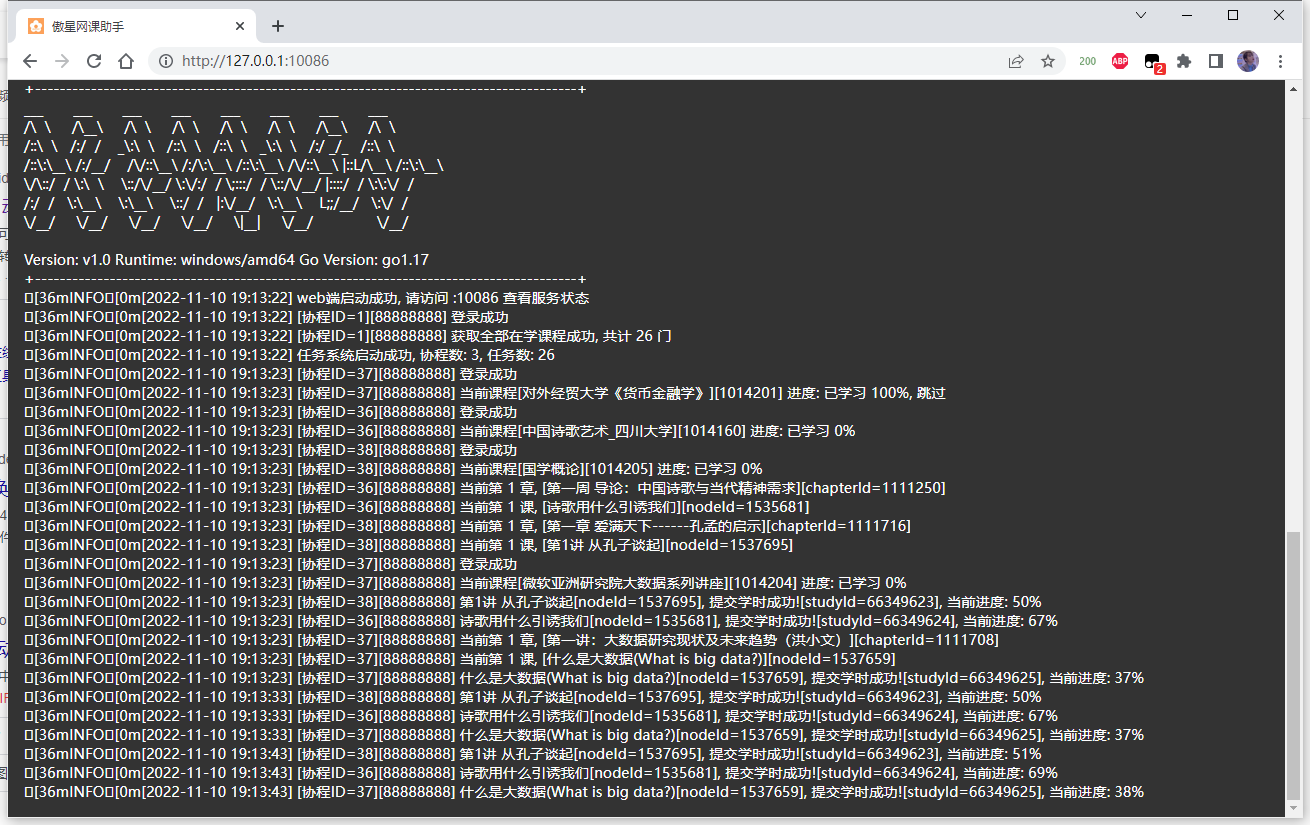
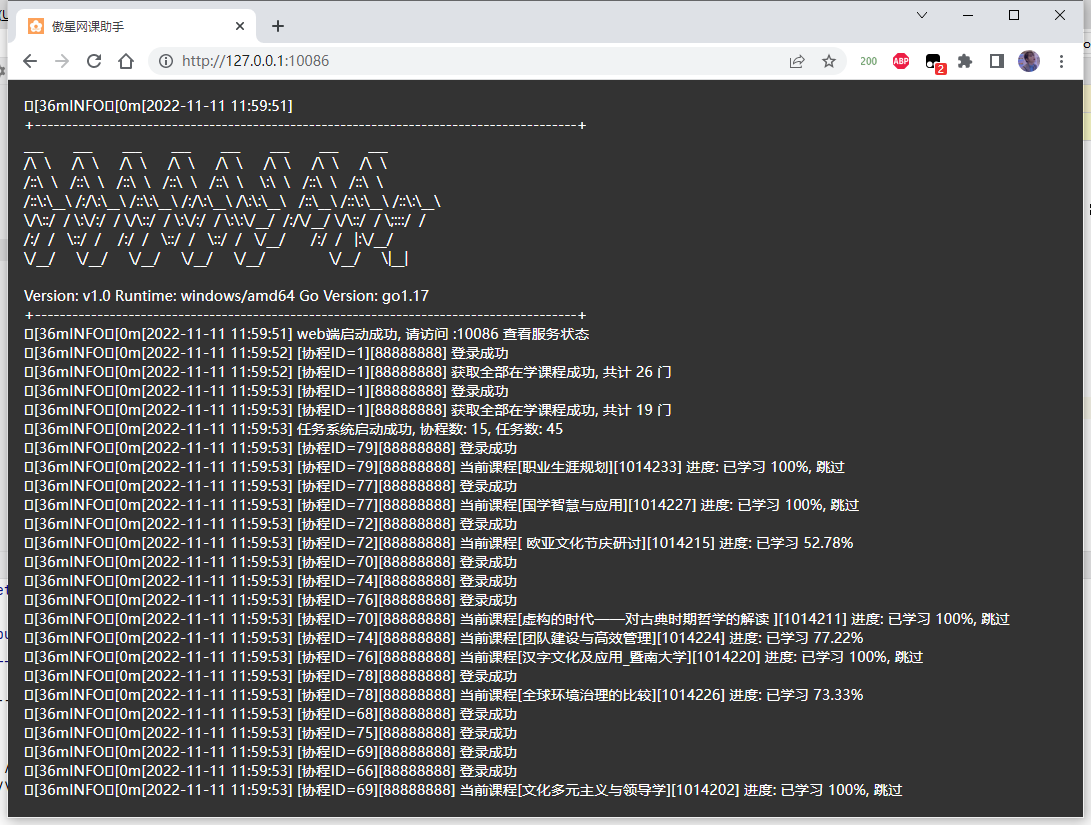
style: 💄 update `copyright`

Changed region(s): [[0.0, 0.0, 0.9349, 0.9697], [0.7479, 0.0606, 1.0, 1.0], [0.9661, 0.0, 1.0, 0.0606]]

diff --git a/pkg/util/util.go b/pkg/util/util.go
@@ -74,13 +74,13 @@ func ReadText(filename string, line int, limit int) ([]string, error) {
 func Copyright() {
 	logrus.Infof(`
 +---------------------------------------------------------------------------------------+
-        ___       ___       ___       ___       ___       ___       ___       ___   
-       /\  \     /\__\     /\  \     /\  \     /\  \     /\  \     /\__\     /\  \  
-      /::\  \   /:/  /    _\:\  \   /::\  \   /::\  \   _\:\  \   /:/ _/_   /::\  \ 
-     /::\:\__\ /:/__/    /\/::\__\ /:/\:\__\ /::\:\__\ /\/::\__\ |::L/\__\ /::\:\__\
-     \/\::/  / \:\  \    \::/\/__/ \:\/:/  / \;:::/  / \::/\/__/ |::::/  / \:\:\/  /
-       /:/  /   \:\__\    \:\__\    \::/  /   |:\/__/   \:\__\    L;;/__/   \:\/  / 
-       \/__/     \/__/     \/__/     \/__/     \|__|     \/__/               \/__/  
+    ___       ___       ___       ___       ___       ___       ___       ___   
+   /\  \     /\  \     /\  \     /\  \     /\  \     /\  \     /\  \     /\  \
+  /::\  \   /::\  \   /::\  \   /::\  \   /::\  \    \:\  \   /::\  \   /::\  \
+ /::\:\__\ /:/\:\__\ /::\:\__\ /:/\:\__\ /\:\:\__\   /::\__\ /::\:\__\ /::\:\__\
+ \/\::/  / \:\/:/  / \/\::/  / \:\/:/  / \:\:\/__/  /:/\/__/ \/\::/  / \;:::/  /
+   /:/  /   \::/  /    /:/  /   \::/  /   \::/  /   \/__/      /:/  /   |:\/__/ 
+   \/__/     \/__/     \/__/     \/__/     \/__/               \/__/     \|__|
 
                Version: %s Runtime: %s/%s Go Version: %s
 +---------------------------------------------------------------------------------------+
